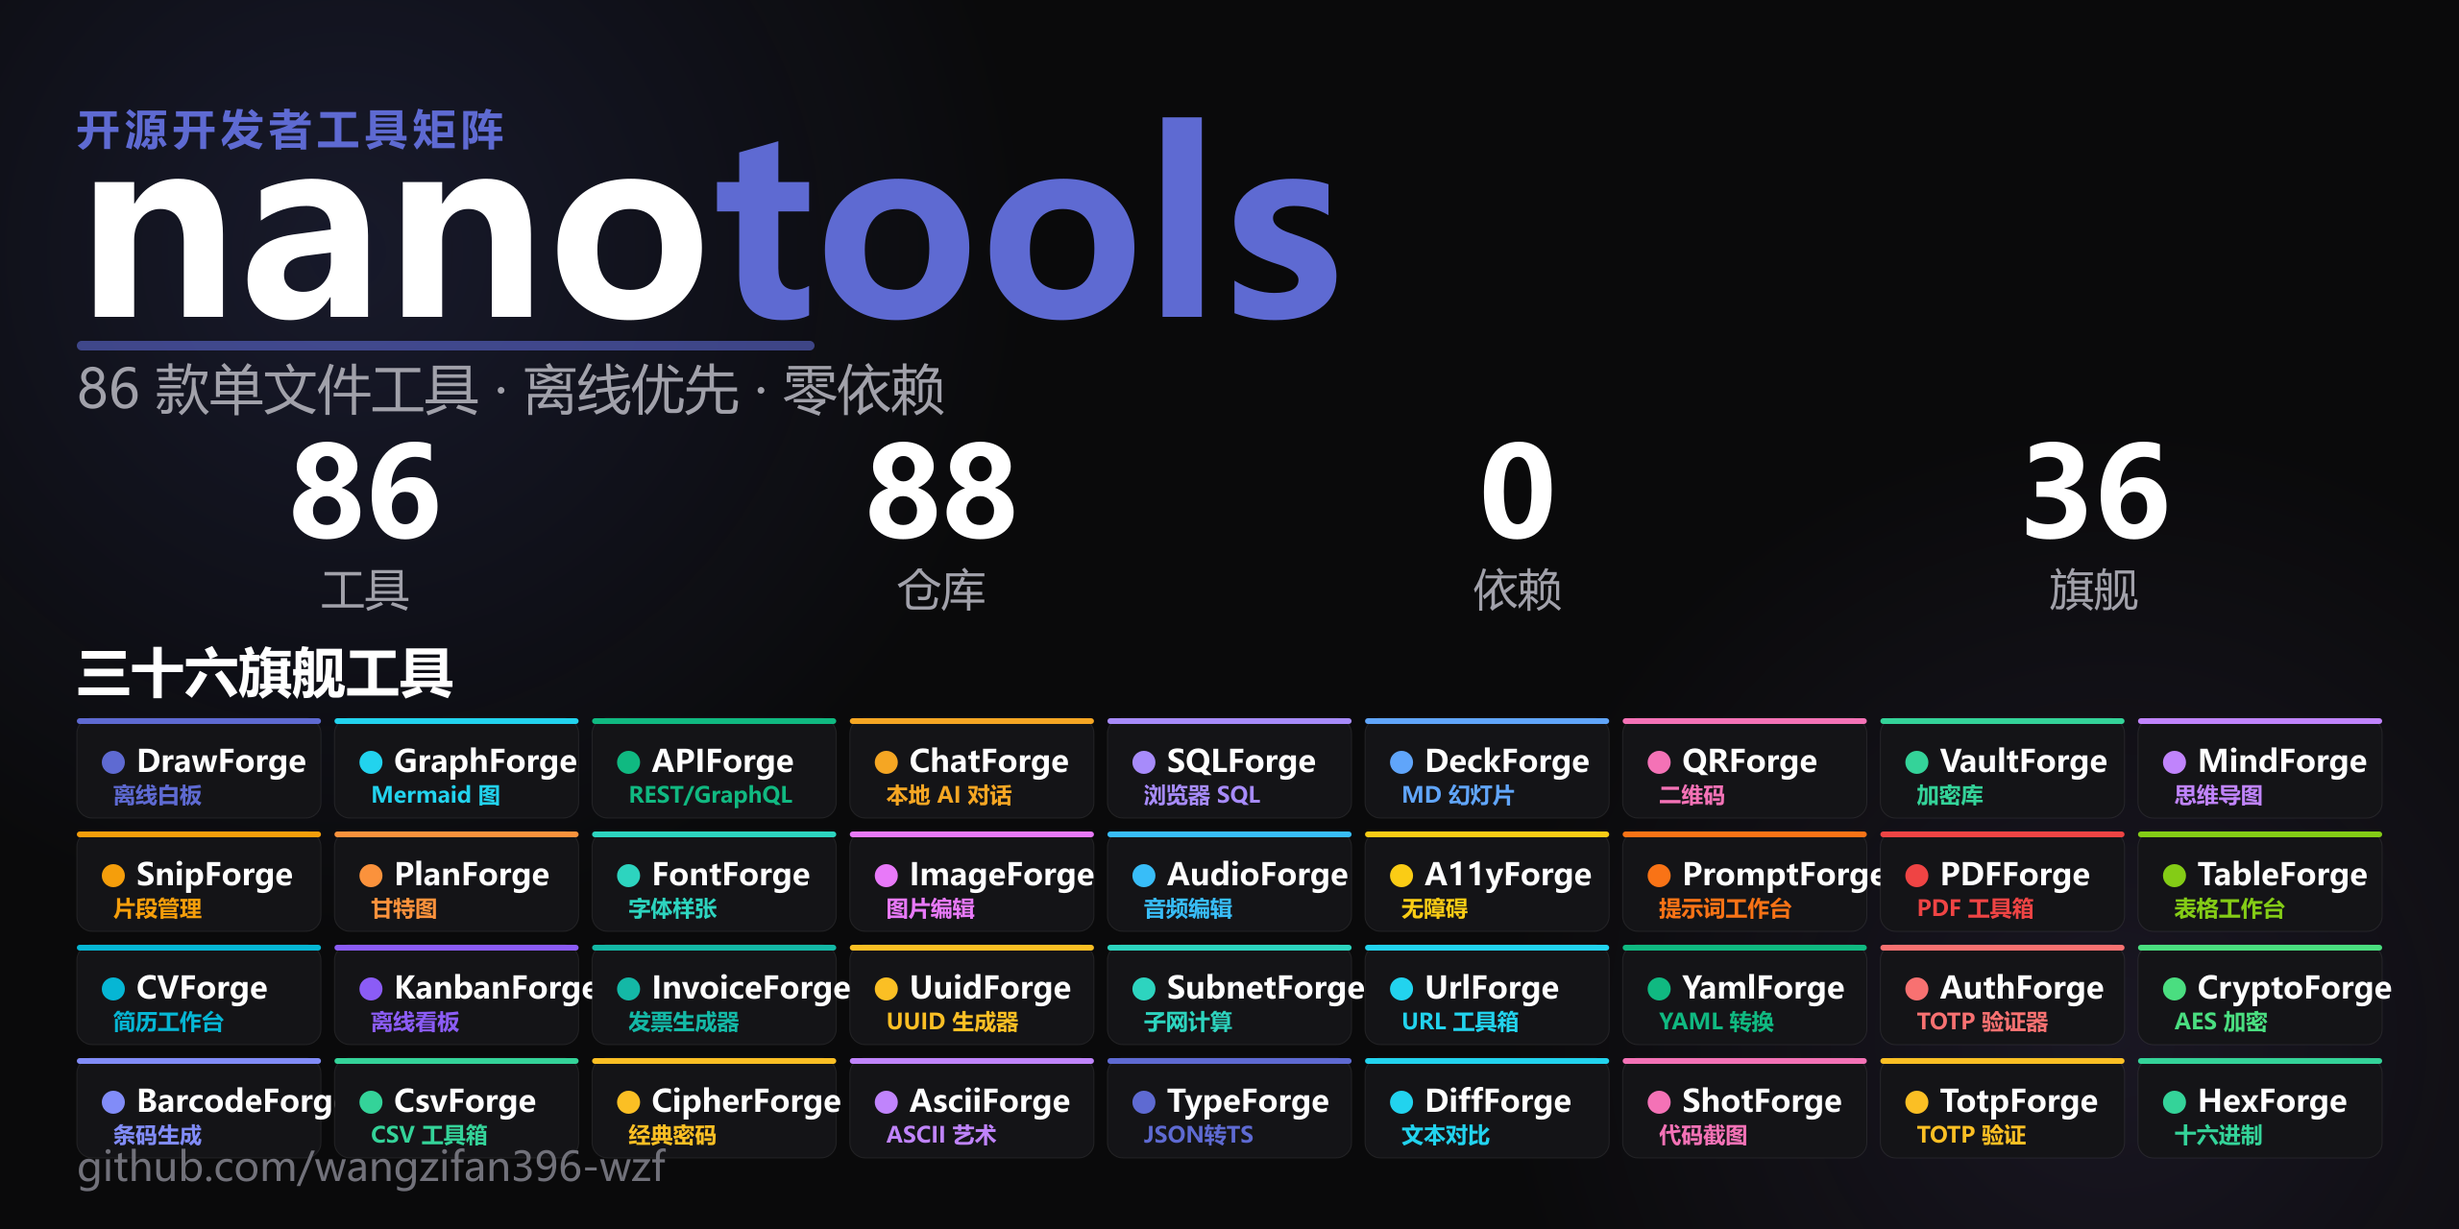
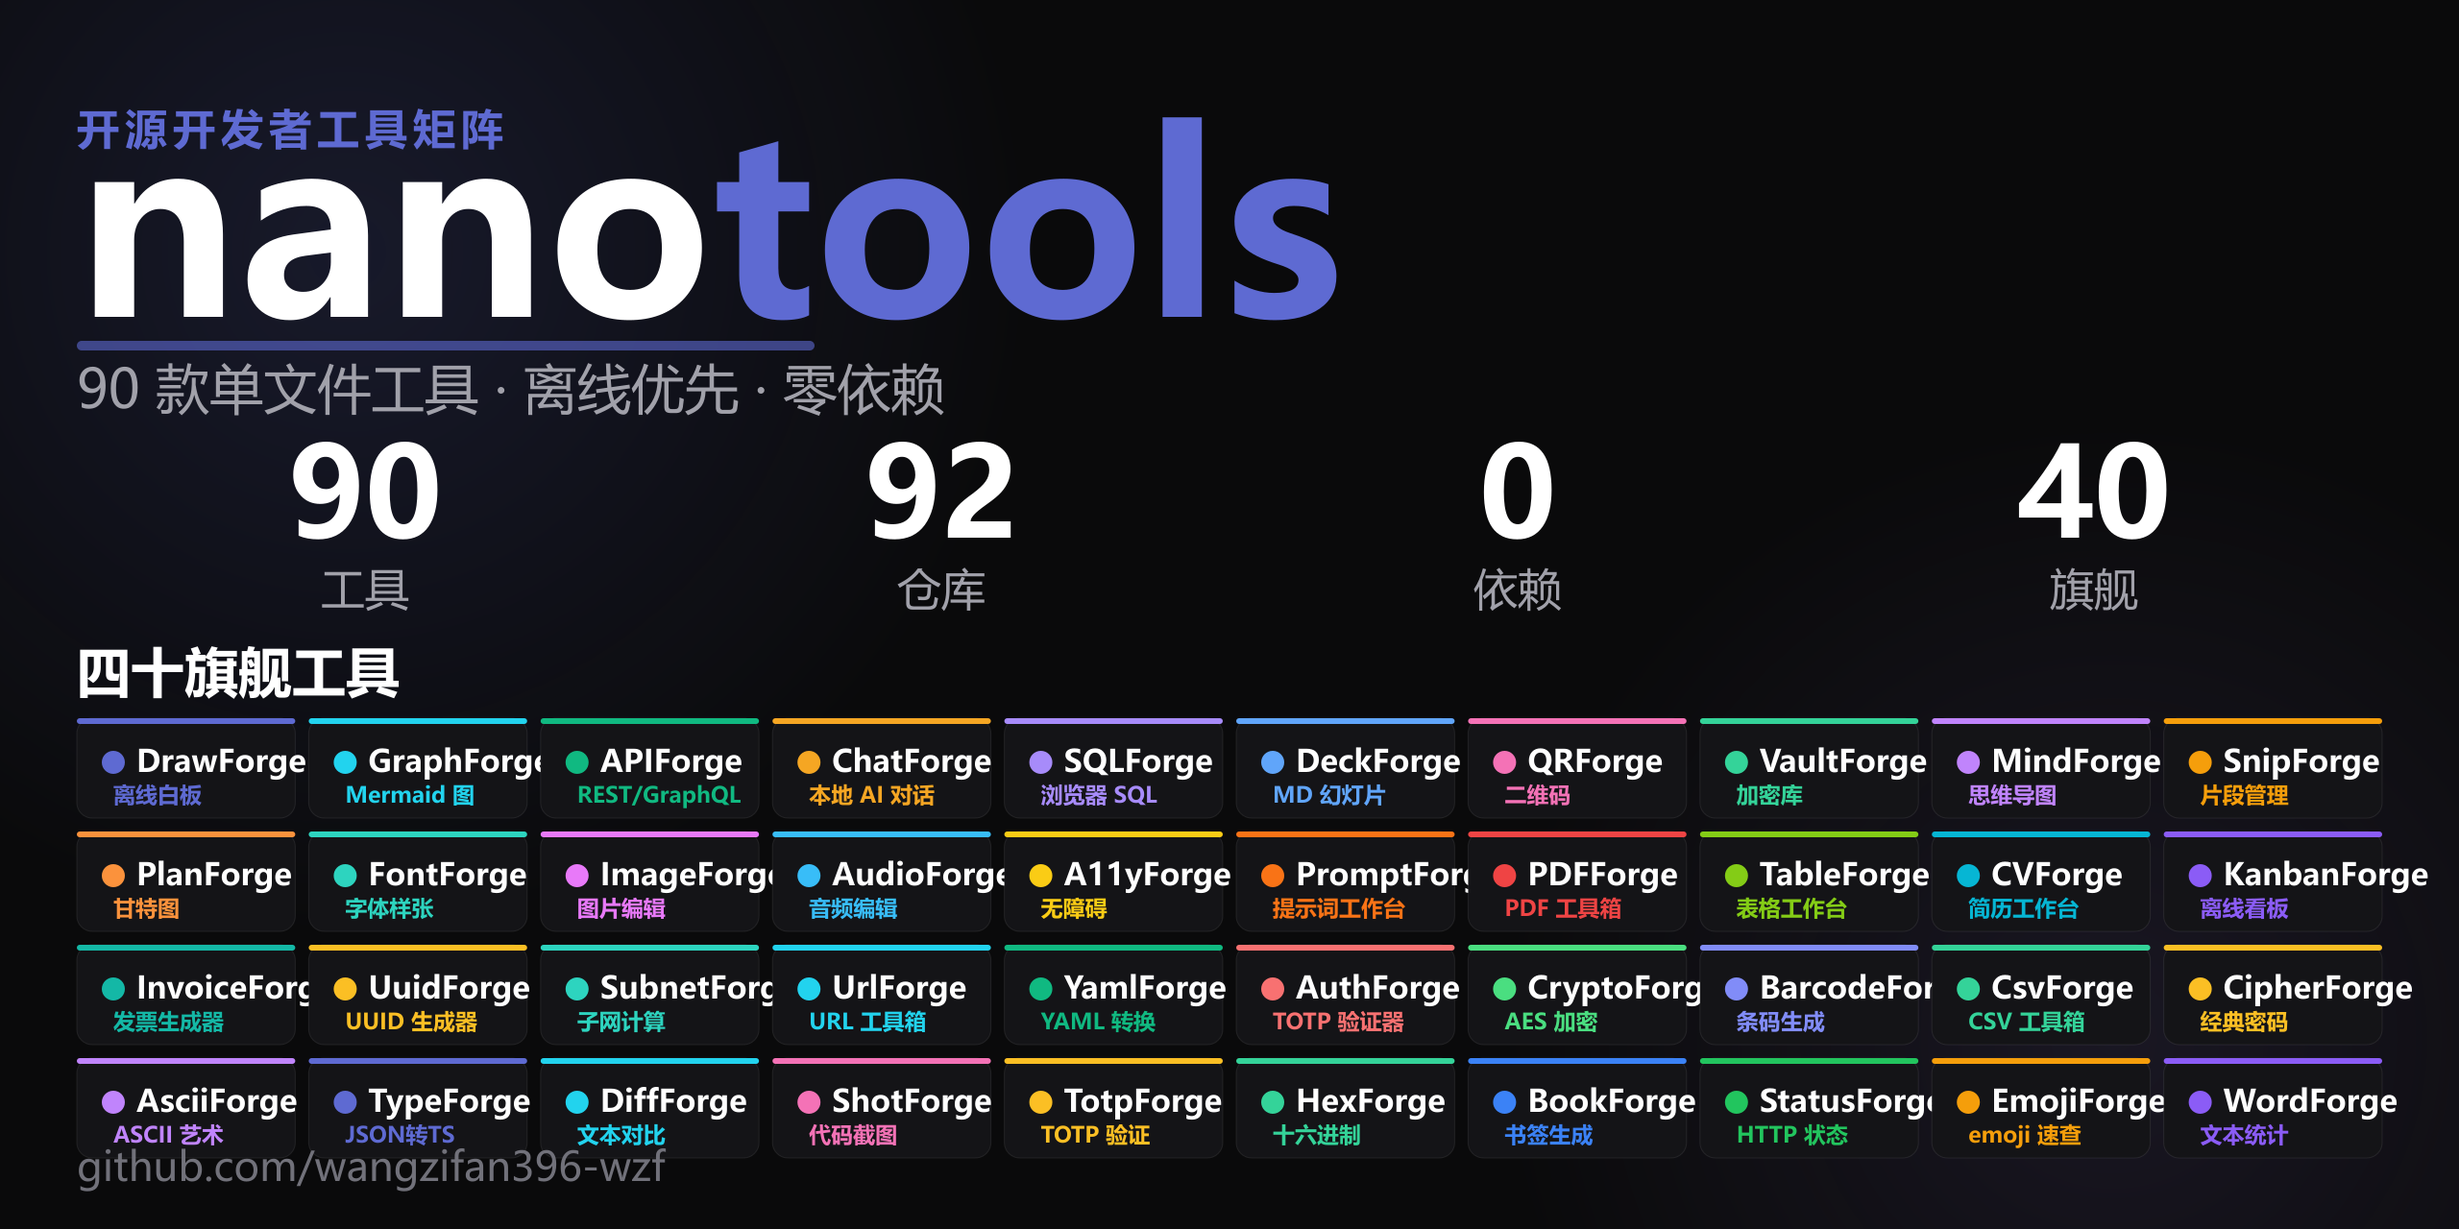
chore: batch 7 - 4 new flagships (BookForge/StatusForge/EmojiForge/WordForge), counts 90/92/40, og + social preview

diff --git a/index.html b/index.html
@@ -5,9 +5,9 @@
 <meta charset="UTF-8">
 <meta name="viewport" content="width=device-width, initial-scale=1.0">
 <title data-i18n="meta_title">nano-tools · 单文件零依赖工具集</title>
-<meta name="description" data-i18n="meta_desc" content="一个标签页，收纳你全部的开发者工具。86 个单文件、零依赖、本地优先的开源工具，下载即用，数据永不离机。">
+<meta name="description" data-i18n="meta_desc" content="一个标签页，收纳你全部的开发者工具。90 个单文件、零依赖、本地优先的开源工具，下载即用，数据永不离机。">
 <meta property="og:title" data-i18n="og_title" content="nano-tools · 单文件零依赖工具集">
-<meta property="og:description" data-i18n="og_desc" content="86 个单文件、零依赖、本地优先的开发者工具，下载即用，数据永不离机。">
+<meta property="og:description" data-i18n="og_desc" content="90 个单文件、零依赖、本地优先的开发者工具，下载即用，数据永不离机。">
 <meta property="og:image" content="social-preview.png">
 <meta property="og:image:width" content="1280">
 <meta property="og:image:height" content="640">
@@ -278,13 +278,13 @@
     <div class="hero-left">
       <span class="eyebrow"><span class="dot"></span><span data-i18n="hero_eyebrow">开源 · 零依赖 · 单文件</span></span>
       <h1 class="title" data-i18n-html="hero_title">一个标签页，<br>收纳你<span class="hl">全部的开发者工具</span></h1>
-      <p class="subtitle" data-i18n="hero_subtitle">86 个单文件、离线优先的开源工具，覆盖编码、转换、可视化与 AI。下载即用，数据永远留在你的浏览器里。</p>
+      <p class="subtitle" data-i18n="hero_subtitle">90 个单文件、离线优先的开源工具，覆盖编码、转换、可视化与 AI。下载即用，数据永远留在你的浏览器里。</p>
       <div class="hero-cta">
         <a class="btn primary" href="#tools" data-i18n="hero_browse">浏览工具 ↓</a>
         <a class="btn" href="https://github.com/wangzifan396-wzf" target="_blank" rel="noopener" data-i18n="hero_github">在 GitHub 查看</a>
       </div>
       <div class="hero-meta">
-        <span><b>88</b> <span data-i18n="meta_repos">开源仓库</span></span>
+        <span><b>92</b> <span data-i18n="meta_repos">开源仓库</span></span>
         <span><b>0</b> <span data-i18n="meta_deps">外部依赖</span></span>
         <span><b>100%</b> <span data-i18n="meta_local">本地运行</span></span>
       </div>
@@ -327,7 +327,7 @@
   <div class="wrap">
     <div class="sec-head reveal">
       <span class="label" data-i18n="tools_label">工具矩阵</span>
-      <h2 class="sec-title" data-i18n="tools_title">86 款精心打磨的开发者工具</h2>
+      <h2 class="sec-title" data-i18n="tools_title">90 款精心打磨的开发者工具</h2>
       <p class="sec-desc" data-i18n="tools_desc">搜索或按分类筛选，点击「在线试用」立即体验，或前往源码仓库查看实现。</p>
     </div>
     <div class="controls reveal">
@@ -385,7 +385,7 @@
 <div class="wrap">
   <div class="cta-band reveal" style="border-color:var(--acc);">
     <span class="pill ok" style="align-self:center;background:rgba(94,106,210,.16);color:#aab2f0;" data-i18n="wb_badge">★ 聚合工作台</span>
-    <h2 data-i18n="wb_title">一个标签页，收纳全部 86 款工具</h2>
+    <h2 data-i18n="wb_title">一个标签页，收纳全部 90 款工具</h2>
     <p data-i18n="wb_desc">nano-workbench：点选即在内嵌窗口运行、标签间即时切换，无需反复打开新页面。数据永不离机。</p>
     <div class="hero-cta">
       <a class="btn primary" href="https://wangzifan396-wzf.github.io/nano-workbench/" target="_blank" rel="noopener" data-i18n="wb_open">打开工作台 ↗</a>
@@ -397,7 +397,7 @@
 <div class="wrap">
   <div class="cta-band reveal">
     <h2 data-i18n="cta_title">把你下一个小工具，交给 nano-tools</h2>
-    <p data-i18n="cta_desc">88 个仓库、86 款工具，全部开源、零依赖、本地优先。</p>
+    <p data-i18n="cta_desc">92 个仓库、90 款工具，全部开源、零依赖、本地优先。</p>
     <div class="hero-cta">
       <a class="btn primary" href="#tools" data-i18n="cta_browse">开始浏览</a>
       <a class="btn" href="https://github.com/wangzifan396-wzf" target="_blank" rel="noopener">★ Star on GitHub</a>
@@ -425,16 +425,16 @@
   // 双语字典（中 / 英）。data-i18n 文本用 textContent；data-i18n-html 保留 <br>/<span> 结构；meta 改 content 属性。
   var I18N = {
     "meta_title":{zh:"nano-tools · 单文件零依赖工具集",en:"nano-tools · single-file, zero-dep tools"},
-    "meta_desc":{zh:"一个标签页，收纳你全部的开发者工具。86 个单文件、零依赖、本地优先的开源工具，下载即用，数据永不离机。",en:"One tab for all your dev tools. 86 single-file, zero-dep, local-first open-source tools. Download and use; data never leaves the browser."},
+    "meta_desc":{zh:"一个标签页，收纳你全部的开发者工具。90 个单文件、零依赖、本地优先的开源工具，下载即用，数据永不离机。",en:"One tab for all your dev tools. 90 single-file, zero-dep, local-first open-source tools. Download and use; data never leaves the browser."},
     "og_title":{zh:"nano-tools · 单文件零依赖工具集",en:"nano-tools · single-file, zero-dep tools"},
-    "og_desc":{zh:"86 个单文件、零依赖、本地优先的开发者工具，下载即用，数据永不离机。",en:"86 single-file, zero-dep, local-first dev tools. Download and use; data never leaves the browser."},
+    "og_desc":{zh:"90 个单文件、零依赖、本地优先的开发者工具，下载即用，数据永不离机。",en:"90 single-file, zero-dep, local-first dev tools. Download and use; data never leaves the browser."},
     "nav_features":{zh:"特性",en:"Features"},
     "nav_tools":{zh:"工具",en:"Tools"},
     "nav_stats":{zh:"数据",en:"Stats"},
     "nav_faq":{zh:"问答",en:"FAQ"},
     "hero_eyebrow":{zh:"开源 · 零依赖 · 单文件",en:"Open-source · Zero-dep · Single-file"},
     "hero_title":{zh:'一个标签页，<br>收纳你<span class="hl">全部的开发者工具</span>',en:'One tab, <br>for <span class="hl">all your dev tools</span>'},
-    "hero_subtitle":{zh:"86 个单文件、离线优先的开源工具，覆盖编码、转换、可视化与 AI。下载即用，数据永远留在你的浏览器里。",en:"86 single-file, offline-first open-source tools spanning encoding, conversion, visualization & AI. Download and use instantly; your data never leaves the browser."},
+    "hero_subtitle":{zh:"90 个单文件、离线优先的开源工具，覆盖编码、转换、可视化与 AI。下载即用，数据永远留在你的浏览器里。",en:"90 single-file, offline-first open-source tools spanning encoding, conversion, visualization & AI. Download and use instantly; your data never leaves the browser."},
     "hero_browse":{zh:"浏览工具 ↓",en:"Browse tools ↓"},
     "hero_github":{zh:"在 GitHub 查看",en:"View on GitHub"},
     "meta_repos":{zh:"开源仓库",en:"Open-source repos"},
@@ -450,16 +450,16 @@
     "step3_t":{zh:"单文件可携",en:"Portable single-file"},
     "step3_d":{zh:"每个工具只有一个 HTML 文件，零依赖、可随便复制分享，U 盘里也能跑。",en:"Each tool is one HTML file — zero dependencies, copy & share freely, runs from a USB stick."},
     "tools_label":{zh:"工具矩阵",en:"Tool matrix"},
-    "tools_title":{zh:"86 款精心打磨的开发者工具",en:"86 Hand-crafted Dev Tools"},
+    "tools_title":{zh:"90 款精心打磨的开发者工具",en:"90 Hand-crafted Dev Tools"},
     "tools_desc":{zh:"搜索或按分类筛选，点击「在线试用」立即体验，或前往源码仓库查看实现。",en:"Search or filter by category, hit “Live Demo” to try instantly, or visit the source repo."},
     "search_ph":{zh:"搜索工具… 试试 regex / json / 颜色 / 压缩 / 图表",en:"Search tools… try regex / json / color / compress / chart"},
     "btn_demo":{zh:"在线试用",en:"Live Demo"},
     "btn_src":{zh:"源码",en:"Source"},
     "no_result":{zh:"没有匹配的工具，换个关键词试试 🔍",en:"No matching tools — try another keyword 🔍"},
     "cta_title":{zh:"把你下一个小工具，交给 nano-tools",en:"Your next tiny tool, from nano-tools"},
-    "cta_desc":{zh:"88 个仓库、86 款工具，全部开源、零依赖、本地优先。",en:"88 repos, 86 tools. All open-source, zero-dep, local-first."},
+    "cta_desc":{zh:"92 个仓库、90 款工具，全部开源、零依赖、本地优先。",en:"92 repos, 90 tools. All open-source, zero-dep, local-first."},
     "wb_badge":{zh:"★ 聚合工作台",en:"★ Unified Workbench"},
-    "wb_title":{zh:"一个标签页，收纳全部 86 款工具",en:"All 86 tools in one tab"},
+    "wb_title":{zh:"一个标签页，收纳全部 90 款工具",en:"All 90 tools in one tab"},
     "wb_desc":{zh:"nano-workbench：点选即在内嵌窗口运行、标签间即时切换，无需反复打开新页面。数据永不离机。",en:"nano-workbench: pick a tool and run it in an embedded pane, switch tabs instantly — no more reopening pages. Data never leaves your machine."},
     "wb_open":{zh:"打开工作台 ↗",en:"Open Workbench ↗"},
     "wb_src":{zh:"查看源码",en:"View Source"},
@@ -745,7 +745,19 @@
      tags:["totp","otp","2fa","rfc6238"]},
     {id:"HexForge", name:"HexForge", icon:"hex", cat:"编码加密", badge:"旗舰",
      desc:"离线十六进制查看器：文本(UTF-8)/十六进制/本地文件 → xxd 格式 dump，数据不出本机。",
-     tags:["hex","dump","binary","xxd"]}
+     tags:["hex","dump","binary","xxd"]},
+    {id:"BookForge", name:"BookForge", icon:"book", cat:"网络", badge:"旗舰",
+     desc:"离线书签生成器：粘贴 JavaScript 一键生成可拖入书签栏的 javascript: 书签，支持反向解析与语法校验。",
+     tags:["bookmarklet","bookmark","javascript","script"]},
+    {id:"StatusForge", name:"StatusForge", icon:"status", cat:"网络", badge:"旗舰",
+     desc:"离线 HTTP 状态码速查：覆盖 1xx–5xx 共 60+ 状态码，支持数字 / 关键词搜索与分类筛选。",
+     tags:["http","status","code","reference"]},
+    {id:"EmojiForge", name:"EmojiForge", icon:"emoji", cat:"文本", badge:"旗舰",
+     desc:"离线 emoji 速查：120+ 常用 emoji，按关键词或分组搜索，点击即复制并显示 Unicode 码位。",
+     tags:["emoji","unicode","symbol","copy"]},
+    {id:"WordForge", name:"WordForge", icon:"word", cat:"文本", badge:"旗舰",
+     desc:"离线文本统计：字符 / 词数 / 行数 / 句子 / 段落 / 阅读时长 + 高频英文词，中英文混排友好。",
+     tags:["text","stats","count","words"]}
   ];
 
   // 英文文案（按 id 索引；门户双语切换用）
@@ -836,7 +848,11 @@
     DiffForge:{desc:"Offline text diff — LCS line diff + side-by-side view, add/del stats, built-in character-level inline diff.", cat:"Text"},
     ShotForge:{desc:"Offline code screenshot generator — lightweight syntax highlighting + macOS-style window, copy SVG / export 2x PNG.", cat:"Dev"},
     TotpForge:{desc:"Offline TOTP authenticator — pure-JS HMAC-SHA1 (RFC 4226/6238 verified), Base32/ASCII secret, live countdown.", cat:"Crypto"},
-    HexForge:{desc:"Offline hex viewer — text(UTF-8) / hex / local file to xxd-style dump, data never leaves the browser.", cat:"Encoding"}
+    HexForge:{desc:"Offline hex viewer — text(UTF-8) / hex / local file to xxd-style dump, data never leaves the browser.", cat:"Encoding"},
+    BookForge:{desc:"Offline bookmarklet generator — paste JavaScript, get a draggable javascript: bookmark; reverse-parse & syntax-check. Stays local.", cat:"Web"},
+    StatusForge:{desc:"Offline HTTP status reference — 60+ codes (1xx–5xx) with name, meaning, category; search by code or keyword.", cat:"Web"},
+    EmojiForge:{desc:"Offline emoji lookup — 120+ emojis searchable by keyword or group; click to copy with Unicode codepoint.", cat:"Text"},
+    WordForge:{desc:"Offline text stats — characters / words / lines / sentences / paragraphs / reading time + top English words; CJK-aware.", cat:"Text"}
   };
   // 中文分类 -> 英文分类 映射
   var CAT_EN = {"全部":"All"};
@@ -929,7 +945,11 @@
     diff2:'<rect x="3" y="4" width="8" height="16" rx="1"/><rect x="13" y="4" width="8" height="16" rx="1"/><path d="M6 9h2M6 12h2M16 9h2"/>',
     shot:'<rect x="3" y="4" width="18" height="16" rx="2"/><path d="M3 8h18"/><circle cx="6" cy="6" r="1"/><circle cx="9" cy="6" r="1"/><path d="M7 12h6M7 15h10"/>',
     totp:'<circle cx="8" cy="8" r="4"/><path d="M11 11l8 8M16 16l2-2M19 19l1-1"/>',
-    hex:'<rect x="4" y="4" width="16" height="16" rx="2"/><path d="M8 8h.01M12 8h.01M16 8h.01M8 12h.01M12 12h.01M16 12h.01M8 16h.01M12 16h.01M16 16h.01"/>'
+    hex:'<rect x="4" y="4" width="16" height="16" rx="2"/><path d="M8 8h.01M12 8h.01M16 8h.01M8 12h.01M12 12h.01M16 12h.01M8 16h.01M12 16h.01M16 16h.01"/>',
+    book:'<path d="M12 5C10.5 5 9 5.5 9 7v1H7a2 2 0 00-2 2v9a2 2 0 002 2h10a2 2 0 002-2V10a2 2 0 00-2-2h-2V7c0-1.5-1.5-2-3-2z"/><path d="M9 9h6"/>',
+    status:'<circle cx="12" cy="12" r="9"/><path d="M12 8v5M12 16h.01"/>',
+    emoji:'<circle cx="9" cy="10" r="1"/><circle cx="15" cy="10" r="1"/><path d="M9 15a4 4 0 006 0"/><path d="M5 20a7 7 0 0114 0"/>',
+    word:'<path d="M4 7h16M4 12h16M4 17h10"/>'
   };
   function iconSvg(k){ return '<svg viewBox="0 0 24 24" fill="none" stroke="currentColor" stroke-width="1.8" stroke-linecap="round" stroke-linejoin="round">'+(ICONS[k]||"")+'</svg>'; }
 
@@ -939,7 +959,7 @@
   var $ = function(s,el){return (el||document).querySelector(s);};
   var state = {q:"", cat:"全部", flag:false, fav:false};
   var LANG = (function(){ try{return localStorage.getItem("nano-lang")||"zh";}catch(e){return "zh";} })();
-  var FLAG_IDS = {"DrawForge":1,"GraphForge":1,"APIForge":1,"ChatForge":1,"SQLForge":1,"DeckForge":1,"QRForge":1,"VaultForge":1,"MindForge":1,"SnipForge":1,"PlanForge":1,"FontForge":1,"ImageForge":1,"AudioForge":1,"A11yForge":1,"PromptForge":1,"PDFForge":1,"TableForge":1,"CVForge":1,"KanbanForge":1,"InvoiceForge":1,"UuidForge":1,"SubnetForge":1,"UrlForge":1,"YamlForge":1,"AuthForge":1,"CryptoForge":1,"BarcodeForge":1,"CsvForge":1,"CipherForge":1,"AsciiForge":1,"TypeForge":1,"DiffForge":1,"ShotForge":1,"TotpForge":1,"HexForge":1};
+  var FLAG_IDS = {"DrawForge":1,"GraphForge":1,"APIForge":1,"ChatForge":1,"SQLForge":1,"DeckForge":1,"QRForge":1,"VaultForge":1,"MindForge":1,"SnipForge":1,"PlanForge":1,"FontForge":1,"ImageForge":1,"AudioForge":1,"A11yForge":1,"PromptForge":1,"PDFForge":1,"TableForge":1,"CVForge":1,"KanbanForge":1,"InvoiceForge":1,"UuidForge":1,"SubnetForge":1,"UrlForge":1,"YamlForge":1,"AuthForge":1,"CryptoForge":1,"BarcodeForge":1,"CsvForge":1,"CipherForge":1,"AsciiForge":1,"TypeForge":1,"DiffForge":1,"ShotForge":1,"TotpForge":1,"HexForge":1,"BookForge":1,"StatusForge":1,"EmojiForge":1,"WordForge":1};
   var FAV_KEY = "nano-favs";
   function getFavs(){ try{return JSON.parse(localStorage.getItem(FAV_KEY)||"[]");}catch(e){return [];} }
   function setFav(id,on){ var s=getFavs(); var i=s.indexOf(id); if(on&&i<0)s.push(id); if(!on&&i>=0)s.splice(i,1); try{localStorage.setItem(FAV_KEY,JSON.stringify(s));}catch(e){} }
